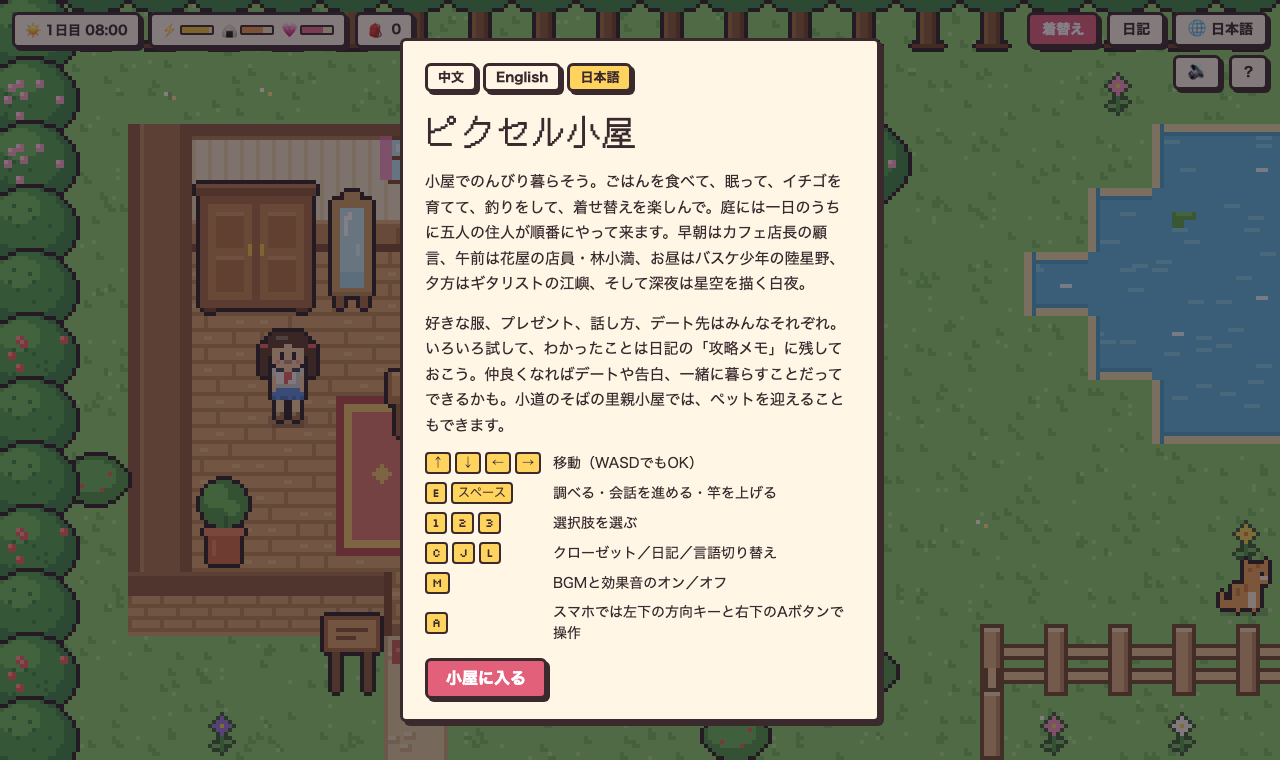
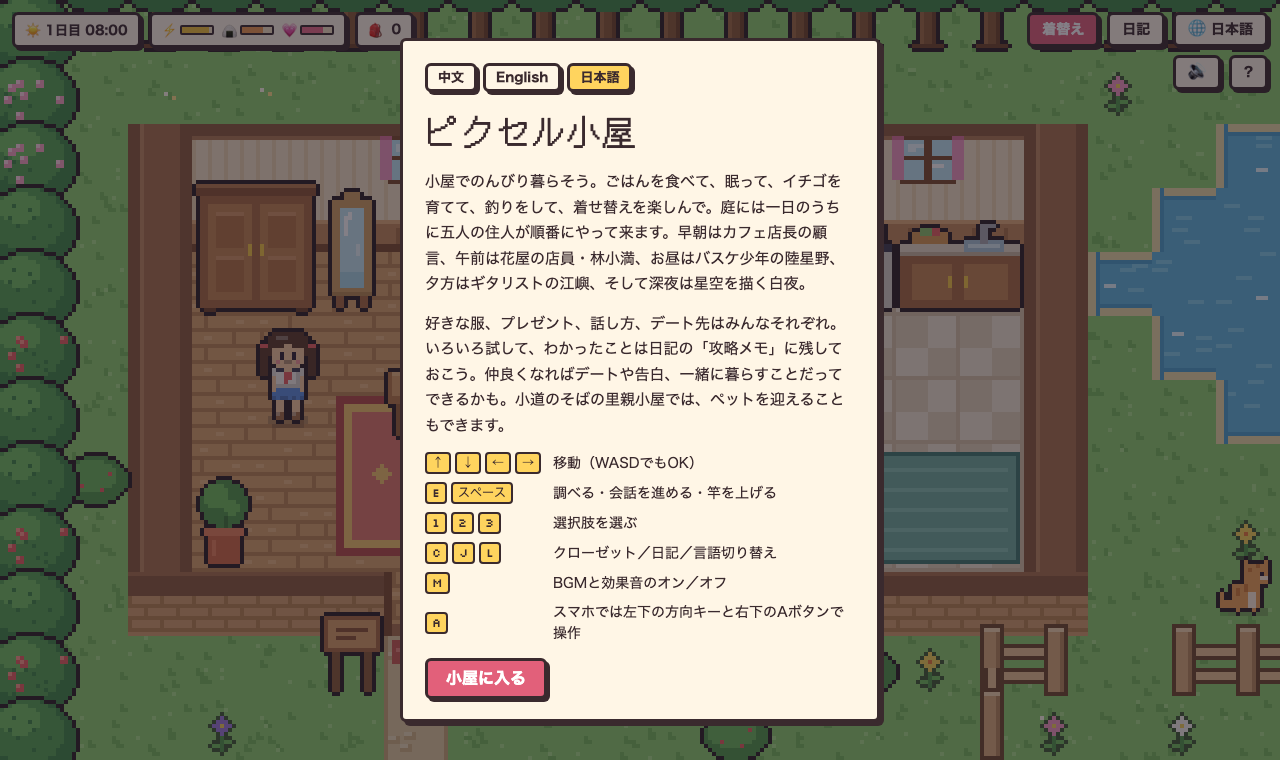
Expand the cottage and add living-together life
- New kitchen (fridge, stove, counter), workout corner and double bed;
  a gate in the garden's top fence keeps the pond reachable.
- A live-in partner cooks breakfast and dinner (eat it at the round
  table), sweeps in the morning and works out in the afternoon. You can
  help with chores, cuddle, and spend the night together (fade out,
  with a per-character morning line).
- Cook at the stove and work out yourself; your partner joins in.
- Fix cat and bird pets flickering between poses while following.
- NPCs no longer wait forever when the player blocks their path.
- zh/en/ja text for all of the above; README gains Jealousy and
  Living-together sections with new screenshots.

Changed region(s): [[0.6875, 0.1513, 0.9688, 0.9079]]

diff --git a/lang/en.js b/lang/en.js
@@ -469,3 +469,14 @@ window.HL_LANG.en.npcs.by.summon = "Don’t get the wrong idea. I was just passi
 
 /* Music and sound. */
 Object.assign(window.HL_LANG.en.ui, {"sound": "Music and sound", "soundOn": "🔊 Sound on", "soundOff": "🔇 Sound off", "kSound": "Turn music and sound on or off"});
+
+/* Home life. */
+Object.assign(window.HL_LANG.en.ui, {"stoveQ": "The little pot on the stove is spotless. Cook something?", "cookFish": "Pan-fried fish (1 fish, fullness +60)", "cookCake": "Strawberry pancakes (2 strawberries, mood +10)", "cookDone": "Done, and it smells amazing!", "cookWith": "{n} pitches in beside you, and the kitchen feels lively.", "gymDone": "Half an hour of exercise. Sweaty, but refreshed.", "gymWith": "{n} joins in and counts your reps.", "gymTired": "Too tired to work out right now.", "counterLine": "The kitchen counter is wiped to a shine.", "mealOpt": "Eat the {m} {n} made (fullness +50)", "breakfast": "breakfast", "dinner": "dinner", "mealAte": "You eat {m} across the table from {n}. Pure happiness.", "choreCook": "🍳 {n} made {m}. It’s on the round table", "choreSweep": "🧹 {n} cleaned the whole house. Mood +5", "choreGym": "💪 {n} finished working out and grins at you, sweaty", "task_cook": "cook", "task_sweep": "clean up", "task_gym": "work out", "optHelp": "Help {n} {x}", "helpDone": "You and {n} work side by side, perfectly in sync.", "optCuddle": "Cuddle up", "optNight": "💞 Spend the night together", "nightFade": "(The lights go down…)", "bedTogether": "Go to bed with {n}"});
+Object.assign(window.HL_LANG.en.objects, {"fridge": {"name": "Fridge", "verb": "Open the fridge"}, "stove": {"name": "Stove", "verb": "Cook"}, "counter": {"name": "Counter", "verb": "Look at the counter"}, "gym": {"name": "Workout Corner", "verb": "Work out"}});
+window.HL_LANG.en.fridgeLines = ["Milk and eggs, lined up neatly in the fridge.", "A sticky note on the fridge door: “Don’t skip breakfast.”", "A tub of ice cream hides in the freezer."];
+window.HL_LANG.en.tips.push(...["🏠 Once you live together, your partner cooks, cleans and works out on a schedule. Eat the meals they leave on the round table, and spend the night together. You can also cook at the stove and exercise in the workout corner yourself."]);
+Object.assign(window.HL_LANG.en.npcs.gy, {"cook": "Frying eggs. Sunny side up or over easy?", "sweep": "Dusting the bookshelf. I reorganized your books while I was at it.", "gym": "…I’m stretching. Don’t laugh. You’re the one who said I should exercise.", "cuddle": "Gu Yan pulls you close and rests his chin on your head. “Let’s stay like this a while.”", "night": "“No reading tonight.” Gu Yan takes off his glasses and sets them on the nightstand.", "morningAfter": "Gu Yan walks in with two lattes. “Good morning. Did you… sleep well?”"});
+Object.assign(window.HL_LANG.en.npcs.xm, {"cook": "I’m baking cookies! The first one’s yours~", "sweep": "I’m wiping the windowsill, and I watered the flowers too.", "gym": "I-I’m doing yoga… this pose is so hard!", "cuddle": "Xiaoman leans on your shoulder and hums softly.", "night": "Xiaoman tugs your sleeve, cheeks pink. “Tonight… can we stay together?”", "morningAfter": "Xiaoman smiles at you from under the covers. “Morning… can we stay in bed a little longer?”"});
+Object.assign(window.HL_LANG.en.npcs.xy, {"cook": "Making a giant plate of egg fried rice! You won’t go hungry!", "sweep": "Mopping counts as training! Watch how fast I go!", "gym": "98, 99, 100! Wanna do a few sets too?", "cuddle": "Xingye wraps you up in his arms. “Recharging. Do not disturb!”", "night": "Xingye scratches his head, ears bright red. “Um… tonight, can I hold you the whole night?”", "morningAfter": "Xingye’s already back from his run, hair still damp. “Morning! I got your favorite breakfast!”"});
+Object.assign(window.HL_LANG.en.npcs.jy, {"cook": "Boiling noodles. Don’t expect much, but it’s edible.", "sweep": "…The vacuum was so loud I recorded a sample.", "gym": "Doing push-ups. Guitar needs strong arms.", "cuddle": "Jiang Yu leans against you, strumming idly: the song he wrote just for you.", "night": "Jiang Yu sets his guitar aside. “No more playing tonight. …Come here.”", "morningAfter": "Jiang Yu, still half asleep, pulls you back into his arms. “Five more minutes.”"});
+Object.assign(window.HL_LANG.en.npcs.by, {"cook": "…Don’t look. I’m learning to cook. The burnt piece is mine.", "sweep": "I put my paints away and mopped the floor. Only because you nagged.", "gym": "Painting takes stamina too. …Stop staring at me.", "cuddle": "Bai Ye wraps you in his scarf. He doesn’t say a word, but he holds you tight.", "night": "Bai Ye switches off the studio light. “The stars can wait tonight.”", "morningAfter": "For once Bai Ye is up early, sketching your sleeping face. “…Don’t move. I’m not done.”"});

diff --git a/README.md b/README.md
@@ -18,6 +18,8 @@ A cozy pixel-art life sim with dress-up and romance, playable in 中文 / Englis
 | 衣柜，♥ 表示有人喜欢（中文）<br>The wardrobe; ♥ marks what someone likes | 日记里的关系和攻略笔记（English）<br>The diary: affection and notes |
 | ![用了金手指之后，四位男生围到玩家身边，头顶冒出爱心](docs/screenshots/summon.png) | ![宠物领养站的菜单：小猫、小狗、小鸟、小兔](docs/screenshots/adopt.png) |
 | 金手指：所有男生好感全满，全都跑来找你（中文）<br>The Golden Charm brings every guy running | 在领养站领养宠物（日本語）<br>Adopting a pet at the hut |
+| ![修罗场：恋人陆星野撞见你和江屿说话，吃醋地说「那家伙是谁？」](docs/screenshots/jealous.png) | ![扩建后的小屋：卧室、厨房和健身角，陆星野在灶台做早饭](docs/screenshots/home.png) |
+| 修罗场：恋人吃醋了（中文）<br>Jealousy: caught by your partner | 同居生活：恋人在厨房做早饭（English）<br>Living together: breakfast in the new kitchen |
 
 ![开始界面，可以选择中文、English、日本語](docs/screenshots/start.png)
 
@@ -39,10 +41,27 @@ A cozy pixel-art life sim with dress-up and romance, playable in 中文 / Englis
   - 每个人吃的那一套都不一样：喜欢的颜色、衣服、礼物、话题、活动和约会地点各不相同。穿上对方喜欢的风格再去聊天，好感涨得更多。
   - 试过的东西会记进日记的「攻略笔记」，用 😍😊🙂😐😣 表示对方的反应。
   - 好感进度：2♥ 解锁一起做事，4♥ 撩一下，6♥ 约会，7♥ 牵手，8♥ 告白（心情要在 40 以上），恋人 9♥ 亲亲，10♥ 邀请同居。
-  - 有了恋人还去撩别人、约别人，被恋人看到会吃醋扣好感。
+  - 有了恋人还去撩别人、约别人，被恋人看到会吃醋扣好感（见下面的「修罗场」）。
 - **宠物**：小路边的领养站可以领养小猫、小狗、小鸟、小兔（每种 3 种毛色，最多养 3 只），从候选名字里给它取名。宠物会跟着你走，也可以让它在原地等你。每天可以摸摸、喂它爱吃的东西、陪它玩；亲密度高了，早上会叼礼物回来。每位居民也有偏爱的小动物，带着对的宠物去聊天会额外加好感。
+- **同居生活**：小屋扩建了，右边多了厨房（冰箱、灶台、台面）和健身角，卧室换成了双人床。好感满 10♥ 邀请恋人搬进来后，TA 会按时间表过日子：早上 7 点和傍晚 5 点半做饭（做好的饭放在小圆桌上，去吃就能回饱腹和心情），上午扫地，下午在健身角锻炼。TA 干活时可以过去帮忙，平时可以依偎在一起；晚上 9 点以后可以「今晚一起睡」，画面淡出，第二天早上会有专属的晨间对白。你自己也可以用灶台做菜、在健身角运动，恋人在家会一起帮忙。
 - **金手指**：院子角落藏着一个闪闪发光的道具。用了以后，顾言、陆星野、江屿、白夜的好感度直接满格，当天还会全都跑来找你、跟着你转。捡到后可以马上用，也可以收进背包，之后在日记里点「使用」。
 - **音乐和音效**：轻柔的八音盒背景音乐，晚上会变得更慢、更安静；走路、对话、采集、钓鱼、宠物叫声、好感上升都有音效。全部由浏览器现场合成，没有音频文件。按 M 或右上角 🔊 可以静音。
+
+### 修罗场
+
+有了恋人之后，如果当着恋人的面撩别人、牵别人的手、约别人出去，被看到就会吃醋，好感 -6。每个人吃醋的样子都不一样：
+
+| 恋人 | 吃醋时说 |
+|---|---|
+| 顾言 | ……刚才那位，你们很熟吗？我只是好奇。 |
+| 林小满 | ……刚才那个人是谁呀？我、我才没有在意呢。 |
+| 陆星野 | ……那家伙是谁？我、我也可以对你更好的！ |
+| 江屿 | ……刚才那人谁啊？我没生气，就是问问。 |
+| 白夜 | ……你和那个人，聊得挺开心啊。 |
+
+![修罗场：恋人陆星野撞见你和江屿说话](docs/screenshots/jealous.png)
+
+用了金手指之后，四位男生会同时围在你身边，修罗场就更热闹了。
 
 ### 五位居民
 
@@ -96,10 +115,23 @@ You live in a small cottage with a pond, a strawberry patch and a flower garden.
   - Everyone has their own taste in colors, clothes, gifts, topics, activities and date spots. Dress the way they like before you chat and affection grows faster.
   - Whatever you try is recorded in the diary's Notes as 😍😊🙂😐😣.
   - Milestones: 2♥ activities, 4♥ flirt, 6♥ dates, 7♥ hold hands, 8♥ confess (mood 40+), 9♥ kiss as a couple, 10♥ move in together.
-  - Flirt with someone else while your partner is watching and they'll get jealous.
+  - Flirt with someone else while your partner is watching and they'll get jealous (see Jealousy below).
 - **Pets**: adopt a kitten, puppy, bird or bunny at the hut by the path (3 coat colors each, up to 3 pets) and pick a name. Pets follow you around or wait where you leave them. Pet, feed and play with them every day; with a strong bond they bring you presents in the morning. Each neighbor has a favorite animal, and chatting with the right pet nearby earns bonus affection.
+- **Living together**: the cottage now has a kitchen (fridge, stove, counter), a workout corner and a double bed. Once your partner moves in (10♥), they follow a daily routine: cooking at 7:00 and 17:30 (the meal waits on the round table for fullness and mood), sweeping in the morning and working out in the afternoon. Help them with chores, cuddle up, and after 21:00 choose to spend the night together; the screen fades out and they greet you with their own good-morning line. You can also cook at the stove and work out yourself, and your partner pitches in.
 - **Golden Charm**: something shiny is hidden in a corner of the yard. Use it and Gu Yan, Lu Xingye, Jiang Yu and Bai Ye all jump to max affection and come find you for the rest of the day. Use it on the spot or keep it in your bag and use it later from the diary.
 - **Music and sound**: a soft music-box soundtrack that slows down and quiets at night, plus sounds for footsteps, dialogue, gathering, fishing, pets and rising affection. All of it is synthesized live in the browser; there are no audio files. Press M or the 🔊 button to mute.
+
+### Jealousy
+
+Once you have a partner, flirting with, holding hands with or dating someone else in front of them makes them jealous (affection -6). Everyone takes it differently:
+
+| Partner | What they say |
+|---|---|
+| Gu Yan | …That person just now. Are you two close? Just curious. |
+| Lin Xiaoman | …Who was that just now? N-not that I care or anything. |
+| Lu Xingye | …Who was that? I-I can treat you way better! |
+| Jiang Yu | …Who was that? I'm not mad. Just asking. |
+| Bai Ye | …You and that person looked like you were having fun. |
 
 ### The neighbors
 
@@ -137,10 +169,23 @@ Open `index.html` in a browser; it works offline (the pixel fonts load when onli
   - 好きな色、服、プレゼント、話題、遊び、デート先は人それぞれ。相手好みの服で話しかけると好感度が上がりやすくなります。
   - 試した反応は日記の「攻略メモ」に 😍😊🙂😐😣 で記録されます。
   - 目安：2♥ 一緒に過ごす、4♥ ドキッとさせる、6♥ デート、7♥ 手をつなぐ、8♥ 告白（気分 40 以上）、恋人で 9♥ キス、10♥ 同居。
-  - 恋人の目の前で他の人を口説くと、やきもちを焼かれます。
+  - 恋人の目の前で他の人を口説くと、やきもちを焼かれます（下の「修羅場」参照）。
 - **ペット**：小道のそばの里親小屋で、子ネコ・子イヌ・小鳥・子ウサギを迎えられます（毛色は各 3 種類、3 匹まで）。名前は候補から選べます。ペットはあなたについて来るほか、その場で待たせることも。毎日なでて、好物をあげて、遊んであげましょう。なつき度が上がると朝にプレゼントを持ってきます。住人にはそれぞれ好きな動物がいて、その子を連れて話しかけると好感度にボーナスがつきます。
+- **同居生活**：小屋が増築され、キッチン（冷蔵庫・コンロ・カウンター）とトレーニングコーナー、ダブルベッドができました。10♥ で恋人が引っ越してくると、毎日の時間割どおりに暮らします。朝 7 時と夕方 5 時半に料理（丸テーブルの手料理を食べると満腹と気分が回復）、午前は掃除、午後はトレーニング。家事を手伝ったり、寄り添ったり、21 時以降は「今夜は一緒に」を選ぶと画面が暗転し、翌朝その人だけのおはようの台詞が聞けます。自分でもコンロで料理、トレーニングコーナーで運動ができ、恋人が家にいれば一緒に手伝ってくれます。
 - **ゴールデンチャーム**：庭の隅にキラキラ光るアイテムが隠れています。使うと顧言・陸星野・江嶼・白夜の好感度が一気に最大になり、その日はみんながあなたに会いに来て、ずっとそばにいてくれます。拾ってすぐ使っても、カバンにしまって後から日記で「使う」を押してもOK。
 - **BGMと効果音**：やさしいオルゴールのBGM（夜はゆっくり静かに）と、足音・会話・採集・釣り・ペットの鳴き声・好感度アップなどの効果音。すべてブラウザでその場で合成していて、音声ファイルはありません。M キーか右上の 🔊 でミュートできます。
+
+### 修羅場
+
+恋人ができたあと、恋人の目の前で他の人を口説いたり、手をつないだり、デートに誘ったりすると、やきもちを焼かれて好感度 -6。やきもちの焼き方は人それぞれ：
+
+| 恋人 | やきもちの台詞 |
+|---|---|
+| 顧言 | ……さっきの人とは、仲がいいんですか？ ただ気になっただけですよ。 |
+| 林小満 | ……さっきの人、誰？ べ、別に気にしてないもん。 |
+| 陸星野 | ……あいつ誰だよ？ お、俺だって、お前にもっと優しくできるし！ |
+| 江嶼 | ……さっきのやつ誰だ？ 怒ってない。聞いただけ。 |
+| 白夜 | ……あいつとは、ずいぶん楽しそうに話してたな。 |
 
 ### 住人たち
 
